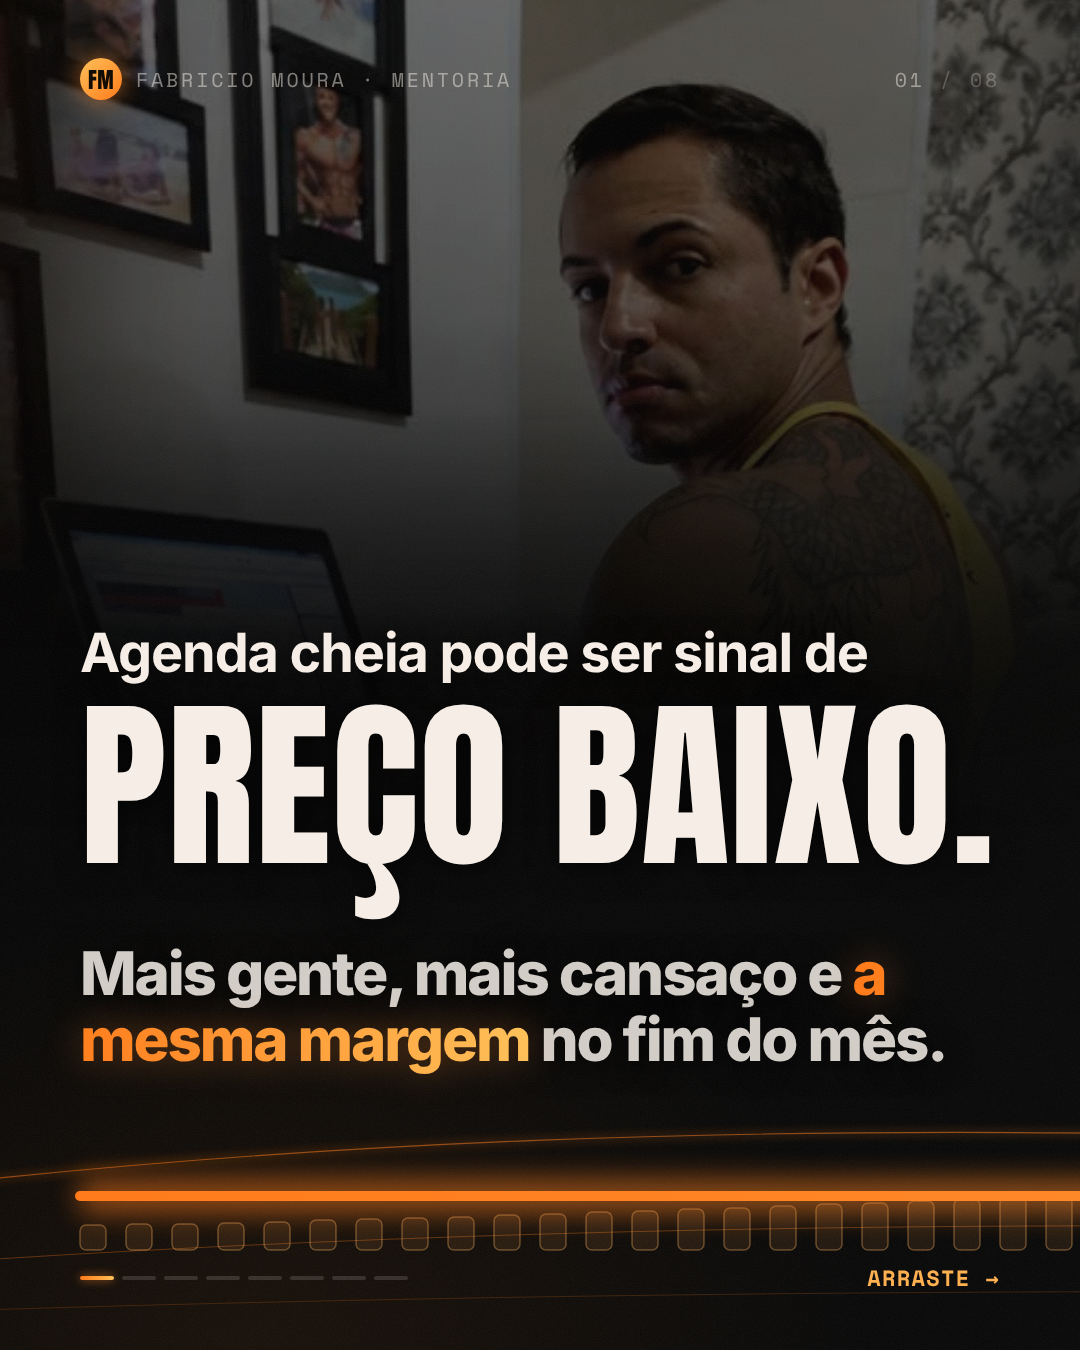
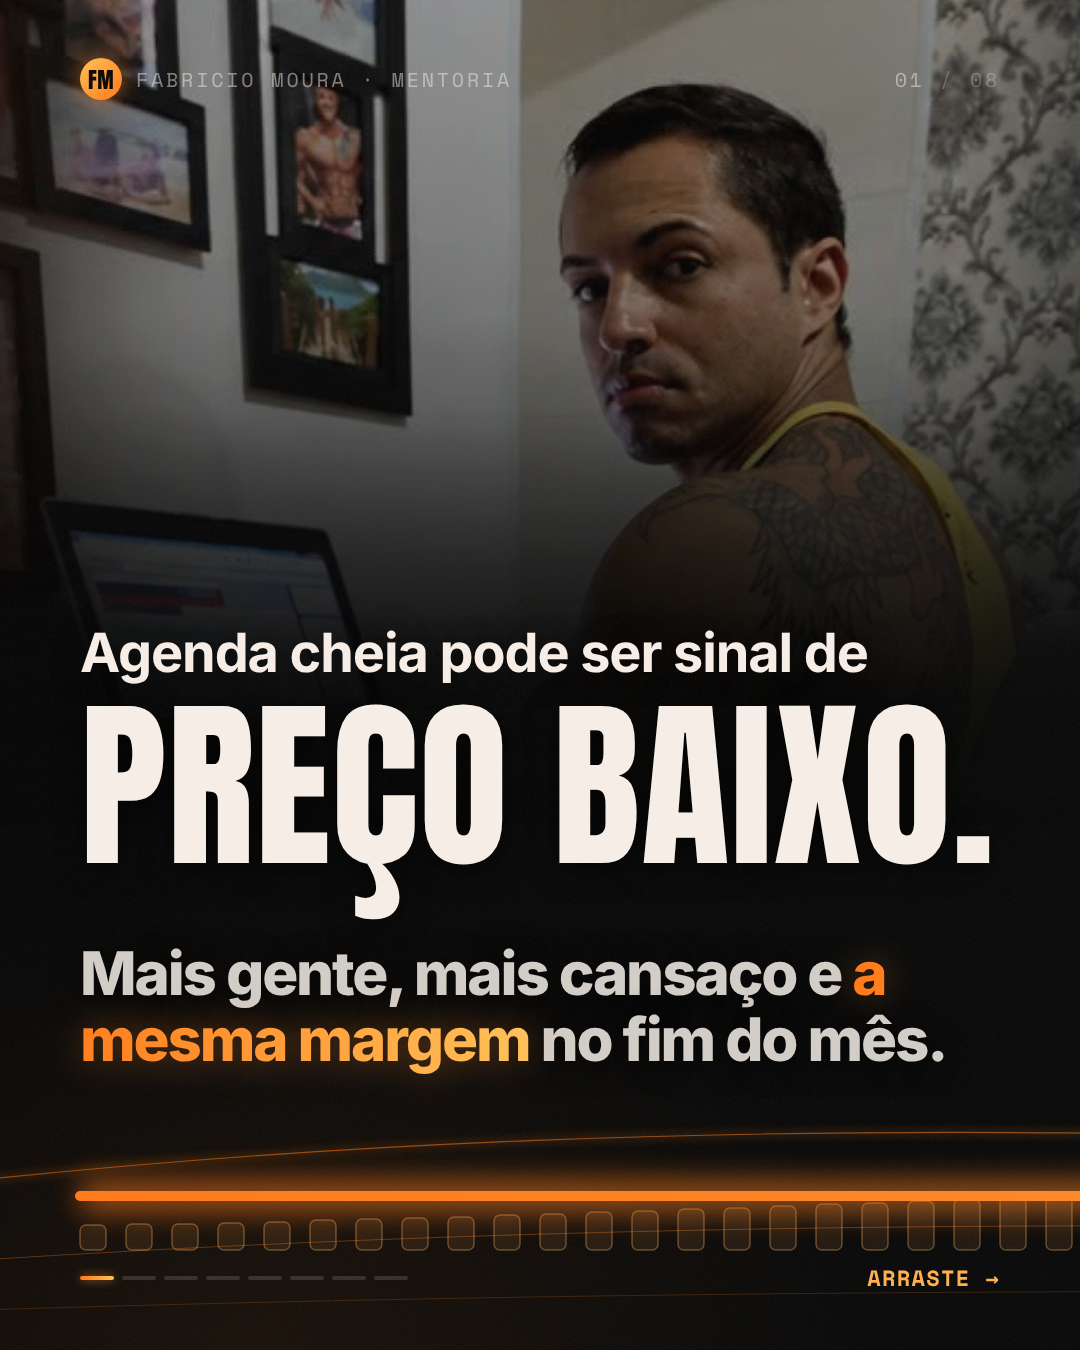
capas glassflow: foto um pouco mais clara
Claude-Session: https://claude.ai/code/session_01RK2kDXjzsRYiZHiUi196vp

Changed region(s): [[0.0611, 0.0, 1.0, 0.3422]]

diff --git a/marketing/instagram/business/c08-bastidor-placas-glassflow/index.html b/marketing/instagram/business/c08-bastidor-placas-glassflow/index.html
@@ -166,9 +166,9 @@ svg#flow{position:absolute;left:0;top:0;pointer-events:none;z-index:4}
 .dark .r{background:linear-gradient(90deg,#E5520F,#F28A2A);-webkit-background-clip:text;background-clip:text;color:transparent;filter:none}
 .dark .lab{color:#D9530F!important}
 .red .lab::before,.dark .lab::before{background:currentColor}
-.flowph::after{background:linear-gradient(180deg,rgba(0,0,0,.34) 0%,rgba(0,0,0,.46) 35%,rgba(0,0,0,.90) 78%),rgba(0,0,0,.12)}
+.flowph::after{background:linear-gradient(180deg,rgba(0,0,0,.20) 0%,rgba(0,0,0,.32) 35%,rgba(0,0,0,.86) 78%),rgba(0,0,0,.04)}
 .k-cover .H,.k-cover .B,.k-cover .a.top div{text-shadow:0 4px 30px rgba(0,0,0,.65)}
-.flowph{filter:saturate(.92) contrast(1.04)}
+.flowph{filter:brightness(1.07) saturate(.95) contrast(1.04)}
 </style></head>
 <body><div id="pano">
 <div class="flowph" style="background-image:url(../fotos/trofeus-edit.jpg);width:1250px;background-position:50% 10%"></div>

diff --git a/marketing/instagram/business/c07-4-numeros-glassflow/index.html b/marketing/instagram/business/c07-4-numeros-glassflow/index.html
@@ -166,9 +166,9 @@ svg#flow{position:absolute;left:0;top:0;pointer-events:none;z-index:4}
 .dark .r{background:linear-gradient(90deg,#E5520F,#F28A2A);-webkit-background-clip:text;background-clip:text;color:transparent;filter:none}
 .dark .lab{color:#D9530F!important}
 .red .lab::before,.dark .lab::before{background:currentColor}
-.flowph::after{background:linear-gradient(180deg,rgba(0,0,0,.34) 0%,rgba(0,0,0,.46) 35%,rgba(0,0,0,.90) 78%),rgba(0,0,0,.12)}
+.flowph::after{background:linear-gradient(180deg,rgba(0,0,0,.20) 0%,rgba(0,0,0,.32) 35%,rgba(0,0,0,.86) 78%),rgba(0,0,0,.04)}
 .k-cover .H,.k-cover .B,.k-cover .a.top div{text-shadow:0 4px 30px rgba(0,0,0,.65)}
-.flowph{filter:saturate(.92) contrast(1.04)}
+.flowph{filter:brightness(1.07) saturate(.95) contrast(1.04)}
 </style></head>
 <body><div id="pano">
 <div class="flowph" style="background-image:url(../fotos/palco-microfone.jpg);"></div>

diff --git a/marketing/instagram/business/c05-semana-1-glassflow/index.html b/marketing/instagram/business/c05-semana-1-glassflow/index.html
@@ -166,9 +166,9 @@ svg#flow{position:absolute;left:0;top:0;pointer-events:none;z-index:4}
 .dark .r{background:linear-gradient(90deg,#E5520F,#F28A2A);-webkit-background-clip:text;background-clip:text;color:transparent;filter:none}
 .dark .lab{color:#D9530F!important}
 .red .lab::before,.dark .lab::before{background:currentColor}
-.flowph::after{background:linear-gradient(180deg,rgba(0,0,0,.34) 0%,rgba(0,0,0,.46) 35%,rgba(0,0,0,.90) 78%),rgba(0,0,0,.12)}
+.flowph::after{background:linear-gradient(180deg,rgba(0,0,0,.20) 0%,rgba(0,0,0,.32) 35%,rgba(0,0,0,.86) 78%),rgba(0,0,0,.04)}
 .k-cover .H,.k-cover .B,.k-cover .a.top div{text-shadow:0 4px 30px rgba(0,0,0,.65)}
-.flowph{filter:saturate(.92) contrast(1.04)}
+.flowph{filter:brightness(1.07) saturate(.95) contrast(1.04)}
 </style></head>
 <body><div id="pano">
 <div class="flowph" style="background-image:url(../fotos/palco-tijolo.jpg);"></div>

diff --git a/marketing/instagram/business/c03-agenda-cheia-glassflow/index.html b/marketing/instagram/business/c03-agenda-cheia-glassflow/index.html
@@ -166,9 +166,9 @@ svg#flow{position:absolute;left:0;top:0;pointer-events:none;z-index:4}
 .dark .r{background:linear-gradient(90deg,#E5520F,#F28A2A);-webkit-background-clip:text;background-clip:text;color:transparent;filter:none}
 .dark .lab{color:#D9530F!important}
 .red .lab::before,.dark .lab::before{background:currentColor}
-.flowph::after{background:linear-gradient(180deg,rgba(0,0,0,.34) 0%,rgba(0,0,0,.46) 35%,rgba(0,0,0,.90) 78%),rgba(0,0,0,.12)}
+.flowph::after{background:linear-gradient(180deg,rgba(0,0,0,.20) 0%,rgba(0,0,0,.32) 35%,rgba(0,0,0,.86) 78%),rgba(0,0,0,.04)}
 .k-cover .H,.k-cover .B,.k-cover .a.top div{text-shadow:0 4px 30px rgba(0,0,0,.65)}
-.flowph{filter:saturate(.92) contrast(1.04)}
+.flowph{filter:brightness(1.07) saturate(.95) contrast(1.04)}
 </style></head>
 <body><div id="pano">
 <div class="flowph" style="background-image:url(../fotos/computador.jpg);"></div>

diff --git a/marketing/instagram/business/c06-renovacao-glassflow/index.html b/marketing/instagram/business/c06-renovacao-glassflow/index.html
@@ -166,9 +166,9 @@ svg#flow{position:absolute;left:0;top:0;pointer-events:none;z-index:4}
 .dark .r{background:linear-gradient(90deg,#E5520F,#F28A2A);-webkit-background-clip:text;background-clip:text;color:transparent;filter:none}
 .dark .lab{color:#D9530F!important}
 .red .lab::before,.dark .lab::before{background:currentColor}
-.flowph::after{background:linear-gradient(180deg,rgba(0,0,0,.34) 0%,rgba(0,0,0,.46) 35%,rgba(0,0,0,.90) 78%),rgba(0,0,0,.12)}
+.flowph::after{background:linear-gradient(180deg,rgba(0,0,0,.20) 0%,rgba(0,0,0,.32) 35%,rgba(0,0,0,.86) 78%),rgba(0,0,0,.04)}
 .k-cover .H,.k-cover .B,.k-cover .a.top div{text-shadow:0 4px 30px rgba(0,0,0,.65)}
-.flowph{filter:saturate(.92) contrast(1.04)}
+.flowph{filter:brightness(1.07) saturate(.95) contrast(1.04)}
 </style></head>
 <body><div id="pano">
 <div class="flowph" style="background-image:url(../fotos/retrato.jpg);"></div>

diff --git a/marketing/instagram/business/gen.py b/marketing/instagram/business/gen.py
@@ -240,9 +240,9 @@ GF_CSS = """
 .dark .r{background:linear-gradient(90deg,#E5520F,#F28A2A);-webkit-background-clip:text;background-clip:text;color:transparent;filter:none}
 .dark .lab{color:#D9530F!important}
 .red .lab::before,.dark .lab::before{background:currentColor}
-.flowph::after{background:linear-gradient(180deg,rgba(0,0,0,.34) 0%,rgba(0,0,0,.46) 35%,rgba(0,0,0,.90) 78%),rgba(0,0,0,.12)}
+.flowph::after{background:linear-gradient(180deg,rgba(0,0,0,.20) 0%,rgba(0,0,0,.32) 35%,rgba(0,0,0,.86) 78%),rgba(0,0,0,.04)}
 .k-cover .H,.k-cover .B,.k-cover .a.top div{text-shadow:0 4px 30px rgba(0,0,0,.65)}
-.flowph{filter:saturate(.92) contrast(1.04)}
+.flowph{filter:brightness(1.07) saturate(.95) contrast(1.04)}
 """
 
 
